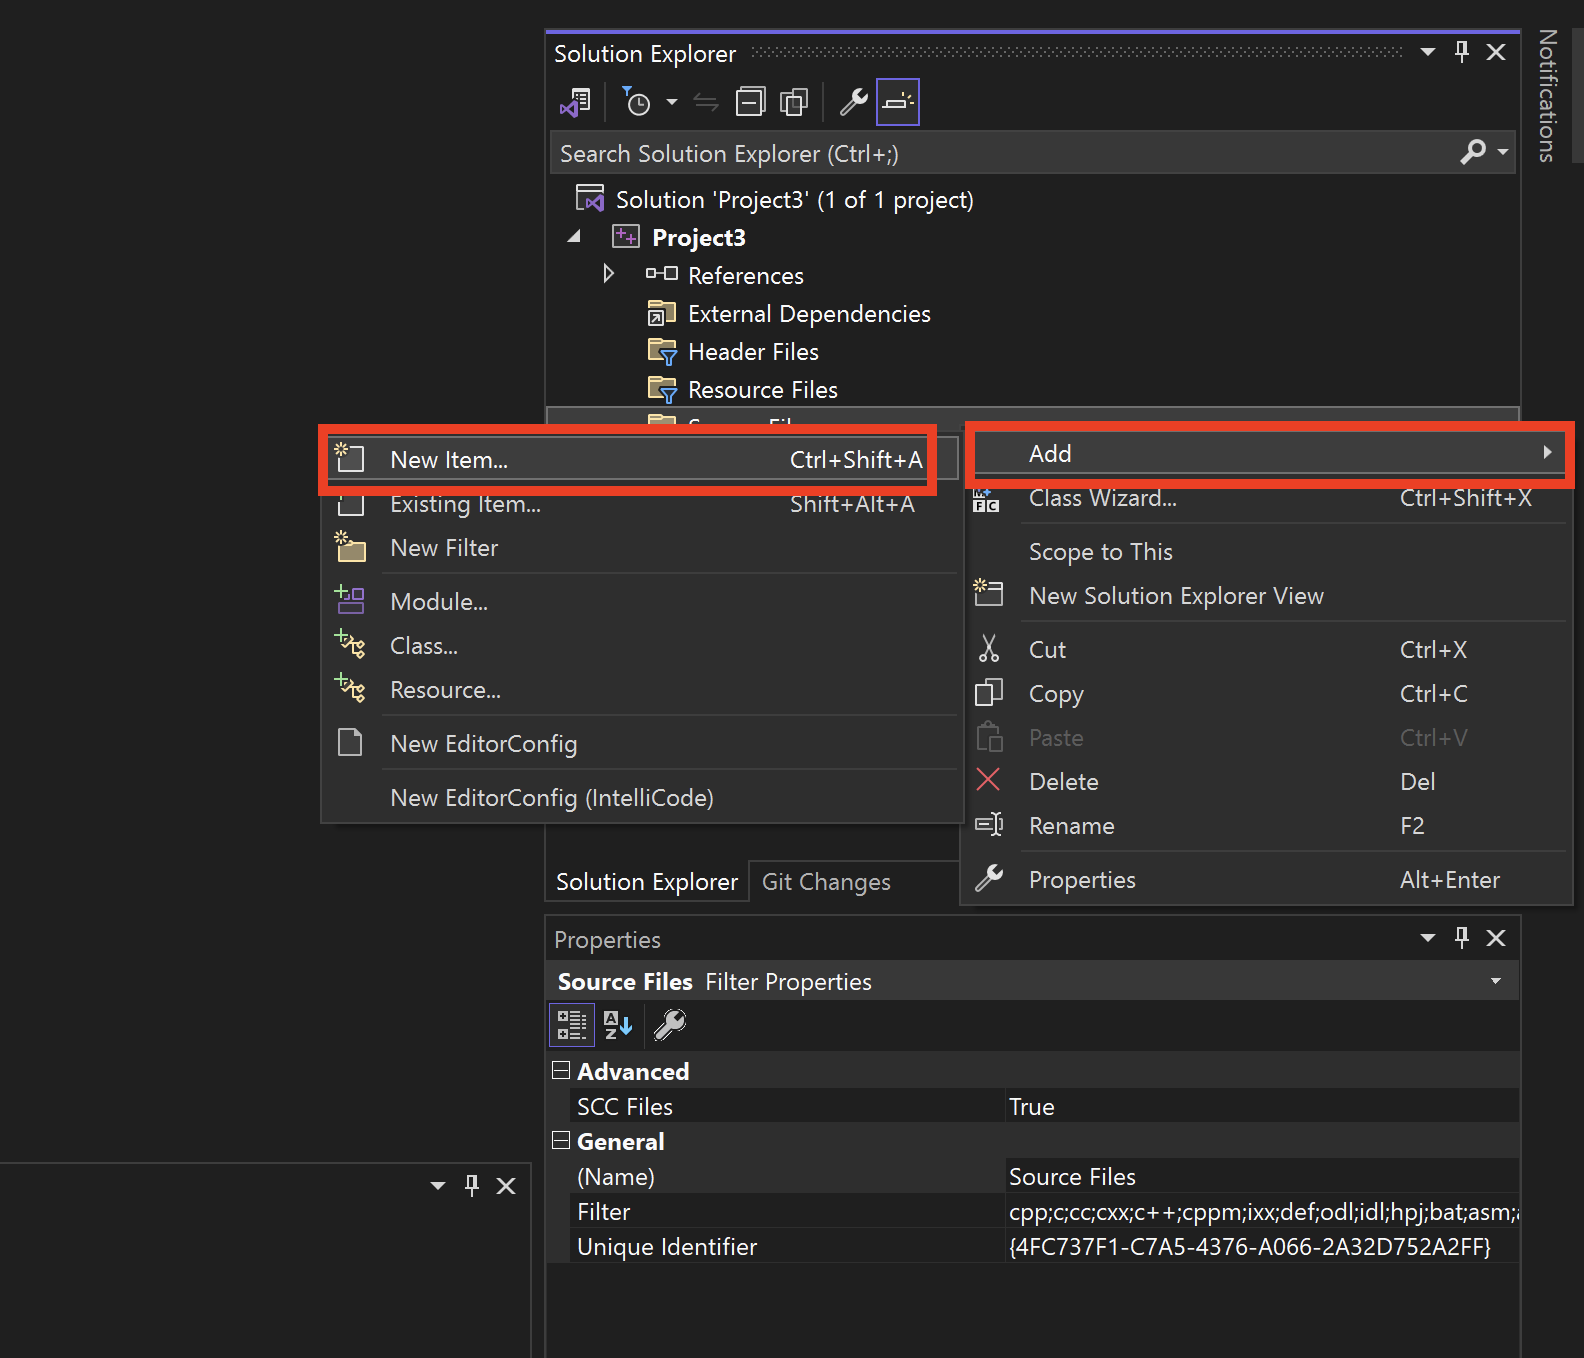
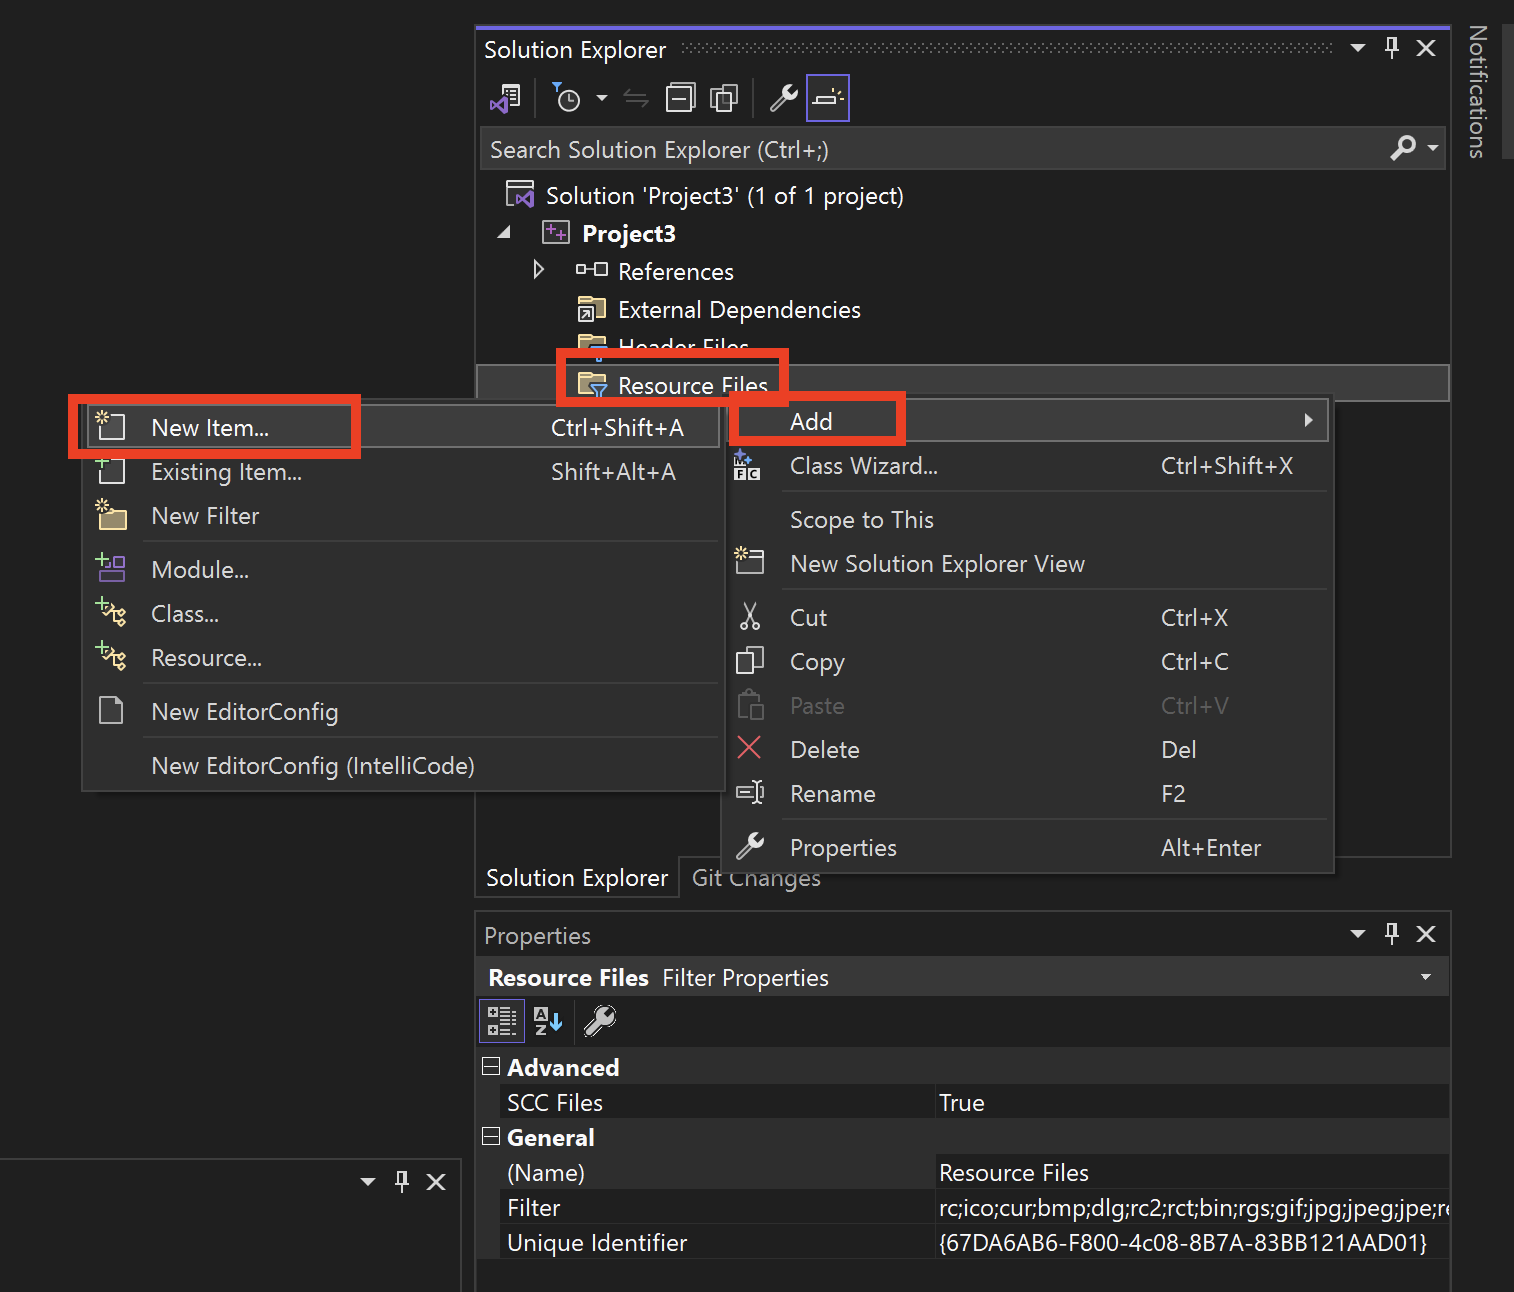
Edit the anatomy of PE

Changed region(s): [[0.031, 0.0, 1.0, 0.9907], [0.6209, 0.8359, 0.9624, 0.9907]]

diff --git a/_posts/2024-04-21-the-anatomy-of-pe.md b/_posts/2024-04-21-the-anatomy-of-pe.md
@@ -363,7 +363,7 @@ int main() {
 
 <h4>.rsrc Section</h4>
 
-<p>The last section that can store a payload is <b>.rsrc</b>. According to <a href="https://maldevacademy.com/">MalDev Academy</a>, this section is very popular among malware developers. The main reason is its storage size. The <b>.rsrc</b> section can store larger payloads than the limited size that can be stored in the <b>.data</b> or <b>.rdata</b> sections.<br /><br />First of all, in order to store a payload in the <b>.rsrc</b> section, you need to create a resource file in the project's Solution Explorer in Visual Studio. More specifically, in Visual Studio, right-click on <b>Resource files</b>, then click <b>Add</b> > <b>New Item</b> and choose the <b>Resource</b> category and <b>Resource File (.rc)</b>.</p>
+<p>The last section that can store a payload is <b>.rsrc</b>. According to <a href="https://maldevacademy.com/">MalDev Academy</a>, this section is very popular among malware developers. The main reason is its storage size. The <b>.rsrc</b> section can store larger payloads than the limited size that can be stored in the <b>.data</b> or <b>.rdata</b> sections.<br /><br />First of all, in order to store a payload in the <b>.rsrc</b> section, you need to create a resource file in the project's Solution Explorer in Visual Studio. More specifically, in Visual Studio, right-click on <b>Resource Files</b>, then click <b>Add</b> > <b>New Item</b> and choose the <b>Resource</b> category and <b>Resource File (.rc)</b>.</p>
 
 <img src="/assets/img/post-img/21-04-2024/create-resource-file-1.png" class="post-images" alt="create-resource-file-1">
 
